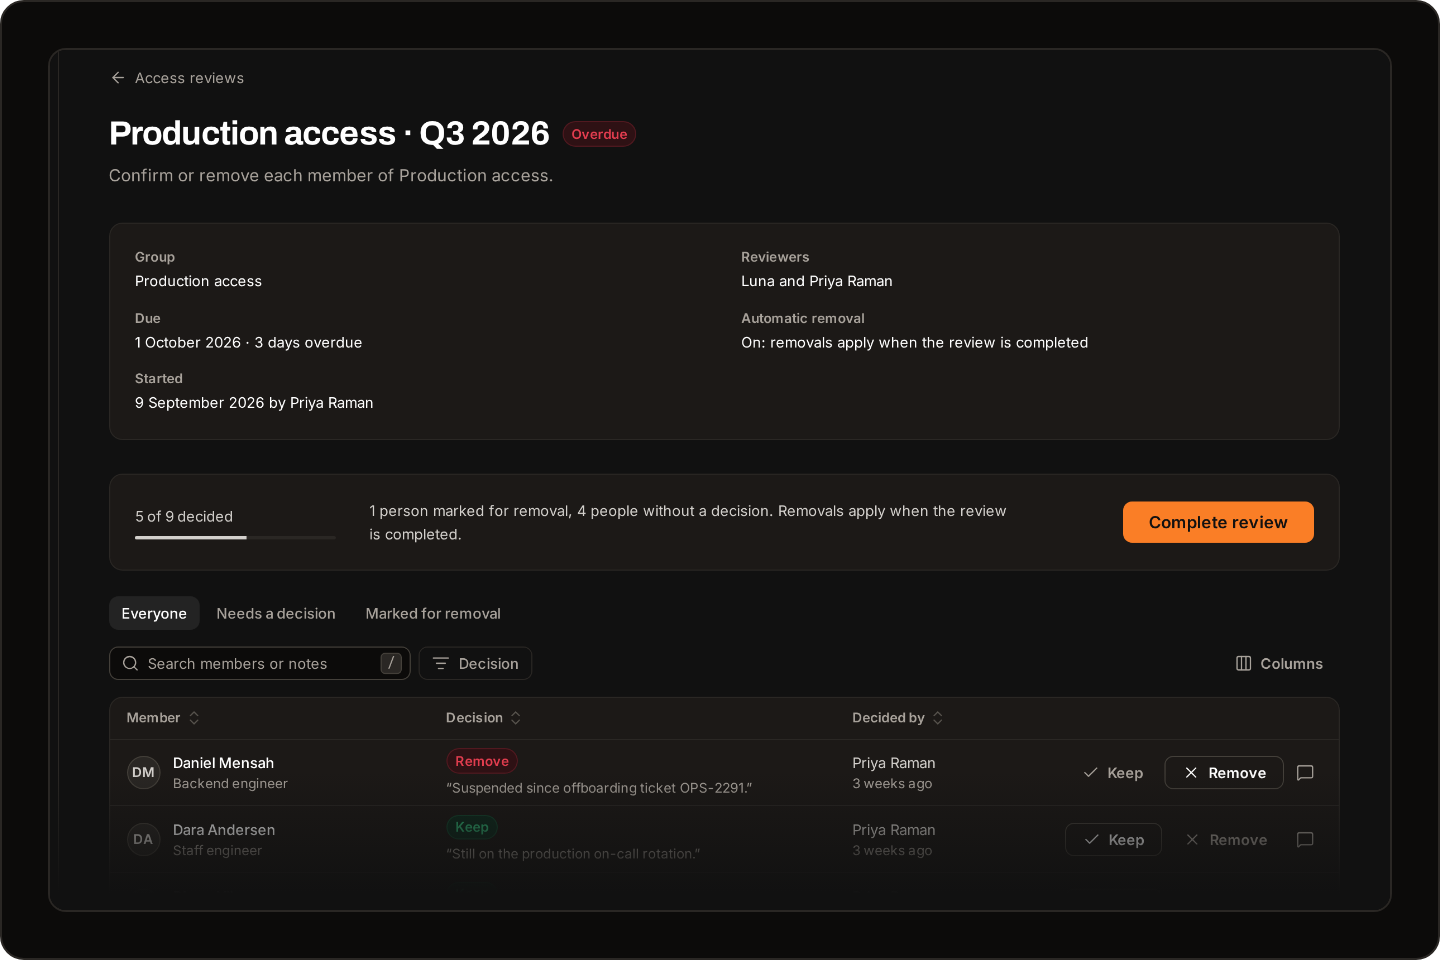
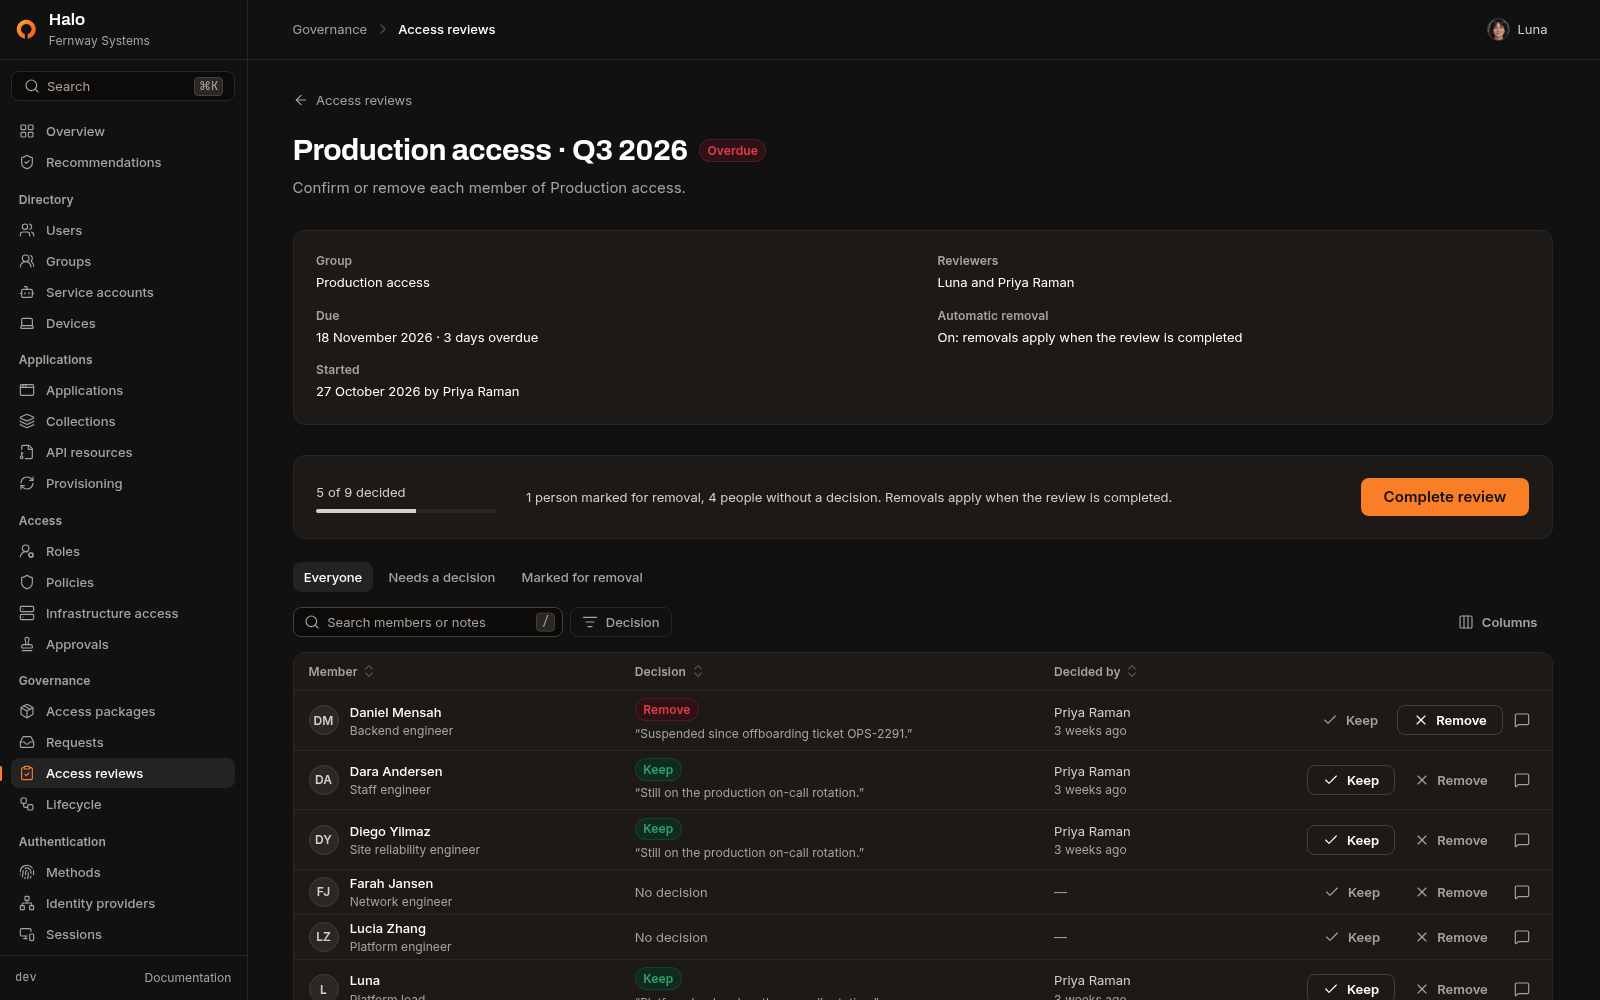
chore: refresh readme demo screenshots

diff --git a/README.md b/README.md
@@ -13,7 +13,7 @@ Halo provides single sign-on over OpenID Connect (OIDC) and SAML 2.0, passkey si
 > [!NOTE]
 > Halo is in active development. The API and configuration may change before 1.0. See the [latest release](https://github.com/ScalaStudios/Halo/releases/latest) for release notes and container image versions.
 
-![The Halo console home page, with the organization's users, groups, devices and applications, the signed-in administrator's roles, open risk events and shortcuts](.github/assets/console-overview.png)
+![The Fernway Systems console overview, showing directory totals, administrator shortcuts, an open risk event, and security posture](.github/assets/console-overview.png)
 
 ## Halo Cloud
 
@@ -261,16 +261,82 @@ systemctl enable --now halo-hostd && systemctl reload ssh
 
 ## Screenshots
 
+The screenshots show Fernway Systems, a fictional organization with 68 people, 14 groups, 13 applications, and sample activity. The demo includes generated profile photos and example integrations. [Load the built-in demo data](https://halo.scala.gg/docs/getting-started#explore-with-demo-data) to explore Halo locally.
+
 <table>
   <tr>
-    <td width="50%"><img src=".github/assets/sign-in.png" alt="Halo's sign-in page, with Continue with passkey as the main action"><br>Passkey-first sign-in</td>
-    <td width="50%"><img src=".github/assets/application.png" alt="The Grafana application in the console, with its client ID, issuer and a ready-to-paste grafana.ini block"><br>Connection details and a setup guide for every application</td>
+    <td width="50%"><a href=".github/assets/sign-in.png"><img src=".github/assets/sign-in.png" alt="Halo sign-in with Continue with passkey as the main action"></a><br>Passkey-first sign-in</td>
+    <td width="50%"><a href=".github/assets/app-launcher.png"><img src=".github/assets/app-launcher.png" alt="The account portal showing assigned applications with Grafana, Forgejo, and Nextcloud logos"></a><br>Account app launcher</td>
   </tr>
   <tr>
-    <td width="50%"><img src=".github/assets/policies.png" alt="The access policies page, with report-only insights above three policies"><br>Conditional access with report-only insights</td>
-    <td width="50%"><img src=".github/assets/access-review.png" alt="An overdue access review, with keep and remove decisions for each member"><br>Access reviews with automatic removal</td>
+    <td width="50%"><a href=".github/assets/directory.png"><img src=".github/assets/directory.png" alt="The Fernway Systems directory showing profile photos, user status, and authentication strength"></a><br>User directory</td>
+    <td width="50%"><a href=".github/assets/identity-checks.png"><img src=".github/assets/identity-checks.png" alt="Priya Raman's profile photo, registered sign-in methods, and verified in-person identity check"></a><br>Authentication methods and identity checks</td>
+  </tr>
+  <tr>
+    <td width="50%"><a href=".github/assets/policies.png"><img src=".github/assets/policies.png" alt="An enforced policy and two report-only policies with impact estimates from recent sign-ins"></a><br>Conditional access</td>
+    <td width="50%"><a href=".github/assets/access-review.png"><img src=".github/assets/access-review.png" alt="An overdue review of the production access group with keep and remove decisions for individual members"></a><br>Access review</td>
   </tr>
 </table>
+
+<details>
+<summary>Applications and integrations</summary>
+
+<table>
+  <tr>
+    <td width="50%"><a href=".github/assets/application.png"><img src=".github/assets/application.png" alt="Grafana's OpenID Connect connection details and grafana.ini setup example"></a><br>OpenID Connect setup</td>
+    <td width="50%"><a href=".github/assets/saml.png"><img src=".github/assets/saml.png" alt="Slack's SAML metadata, sign-in endpoint, certificate, and setup guide"></a><br>SAML setup</td>
+  </tr>
+  <tr>
+    <td width="50%"><a href=".github/assets/client-security.png"><img src=".github/assets/client-security.png" alt="Billing API configured with private key JWT, the FAPI 2.0 security profile, and required DPoP"></a><br>OAuth client security</td>
+    <td width="50%"><a href=".github/assets/federation.png"><img src=".github/assets/federation.png" alt="The enabled Fernway Partner SSO provider with automatic account provisioning"></a><br>Federated sign-in</td>
+  </tr>
+  <tr>
+    <td width="50%"><a href=".github/assets/provisioning.png"><img src=".github/assets/provisioning.png" alt="A Workday connector and recent SCIM changes to the directory"></a><br>Inbound SCIM</td>
+    <td width="50%"><a href=".github/assets/outbound-scim.png"><img src=".github/assets/outbound-scim.png" alt="Slack provisioning settings with sample account and group sync totals"></a><br>Outbound SCIM</td>
+  </tr>
+  <tr>
+    <td width="50%"><a href=".github/assets/directory-sync.png"><img src=".github/assets/directory-sync.png" alt="Two successful example runs in the Fernway Workforce Directory sync history"></a><br>LDAP directory sync</td>
+    <td width="50%"><a href=".github/assets/webhooks.png"><img src=".github/assets/webhooks.png" alt="The sample security events webhook with successful delivery history"></a><br>Webhook deliveries</td>
+  </tr>
+</table>
+
+</details>
+
+<details>
+<summary>Governance and infrastructure</summary>
+
+<table>
+  <tr>
+    <td width="50%"><a href=".github/assets/groups.png"><img src=".github/assets/groups.png" alt="Fernway groups including Engineering, Contractors, and Production access"></a><br>Groups and membership</td>
+    <td width="50%"><a href=".github/assets/access-packages.png"><img src=".github/assets/access-packages.png" alt="Requestable access packages for Grafana, Kubernetes, and production systems"></a><br>Access packages</td>
+  </tr>
+  <tr>
+    <td width="50%"><a href=".github/assets/access-requests.png"><img src=".github/assets/access-requests.png" alt="Pending approval requests and recent decisions for temporary access"></a><br>Access requests</td>
+    <td width="50%"><a href=".github/assets/lifecycle.png"><img src=".github/assets/lifecycle.png" alt="Enabled joiner and leaver rules with recent run history"></a><br>Lifecycle automation</td>
+  </tr>
+  <tr>
+    <td width="50%"><a href=".github/assets/ssh-certificates.png"><img src=".github/assets/ssh-certificates.png" alt="Group-to-principal mappings and an example short-lived SSH certificate"></a><br>SSH certificates</td>
+    <td width="50%"><a href=".github/assets/infrastructure.png"><img src=".github/assets/infrastructure.png" alt="Fernway bastions and CI runners with Linux account and sudo rules by host group"></a><br>Linux host access</td>
+  </tr>
+</table>
+
+</details>
+
+<details>
+<summary>Monitoring and reporting</summary>
+
+<table>
+  <tr>
+    <td width="50%"><a href=".github/assets/sign-in-logs.png"><img src=".github/assets/sign-in-logs.png" alt="Successful and failed demo sign-ins with methods, applications, and risk levels"></a><br>Sign-in logs</td>
+    <td width="50%"><a href=".github/assets/risk.png"><img src=".github/assets/risk.png" alt="An open sign-in risk event with the reason and actions to investigate it"></a><br>Risk events</td>
+  </tr>
+  <tr>
+    <td width="50%"><a href=".github/assets/audit-log.png"><img src=".github/assets/audit-log.png" alt="Administrator and service account actions in the sample audit history"></a><br>Audit log</td>
+    <td width="50%"><a href=".github/assets/reports.png"><img src=".github/assets/reports.png" alt="Sign-in method enrollment counts and a per-person breakdown"></a><br>Authentication reports</td>
+  </tr>
+</table>
+
+</details>
 
 ## Architecture
 
